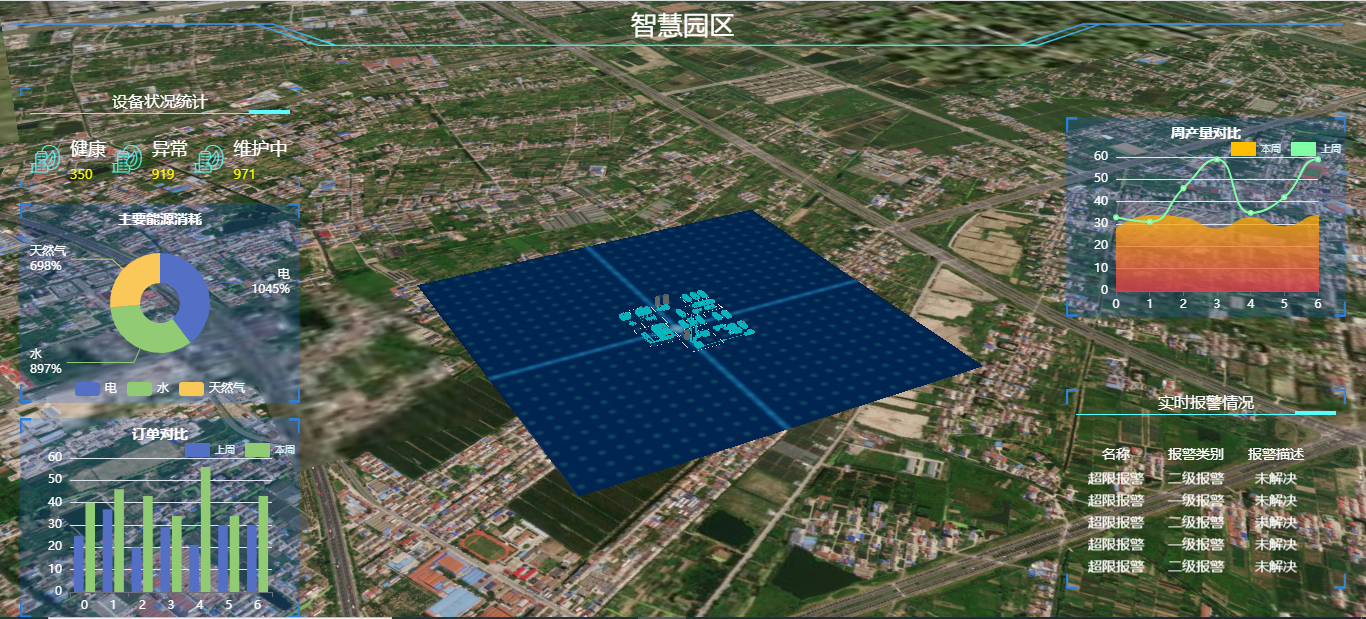
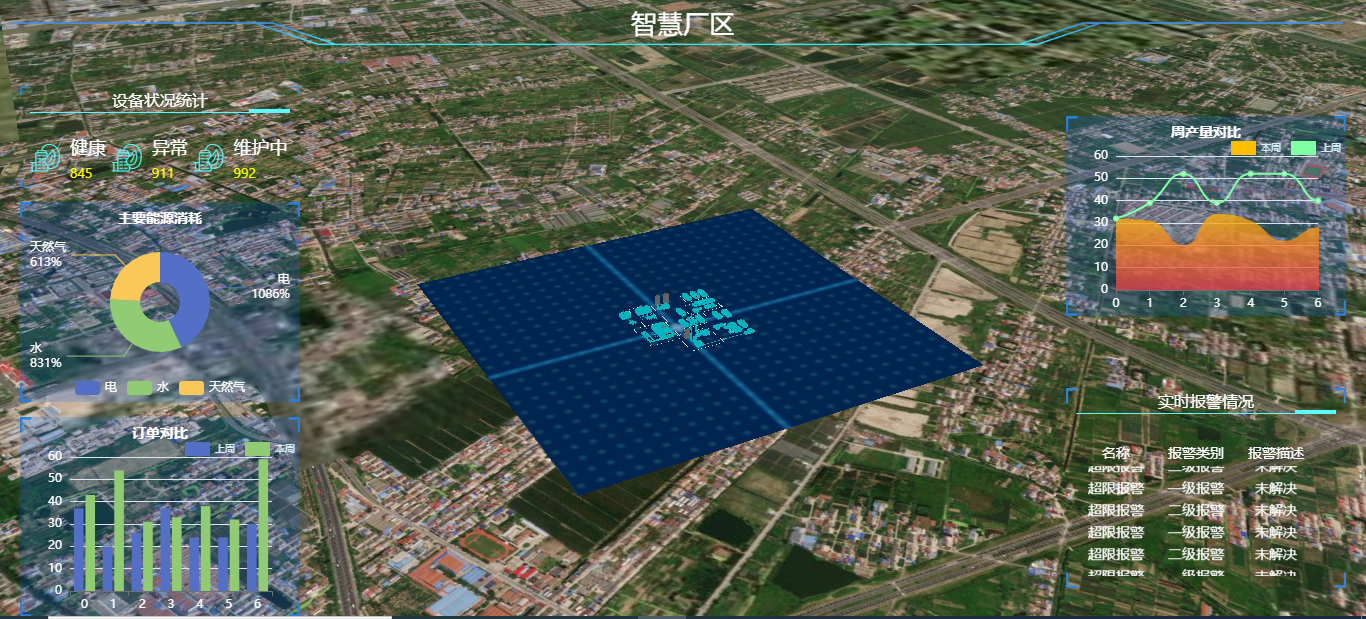
修改模型名称

diff --git a/src/view/EarthPage.vue b/src/view/EarthPage.vue
@@ -1,7 +1,7 @@
 <template>
 	<div class='container'>
 		<div id="modelContainer"></div>
-		<header>智慧园区</header>
+		<header>智慧厂区</header>
 		<section class='left'>
 			<div class='borderBg'>
 				<PanelPage :options="{
